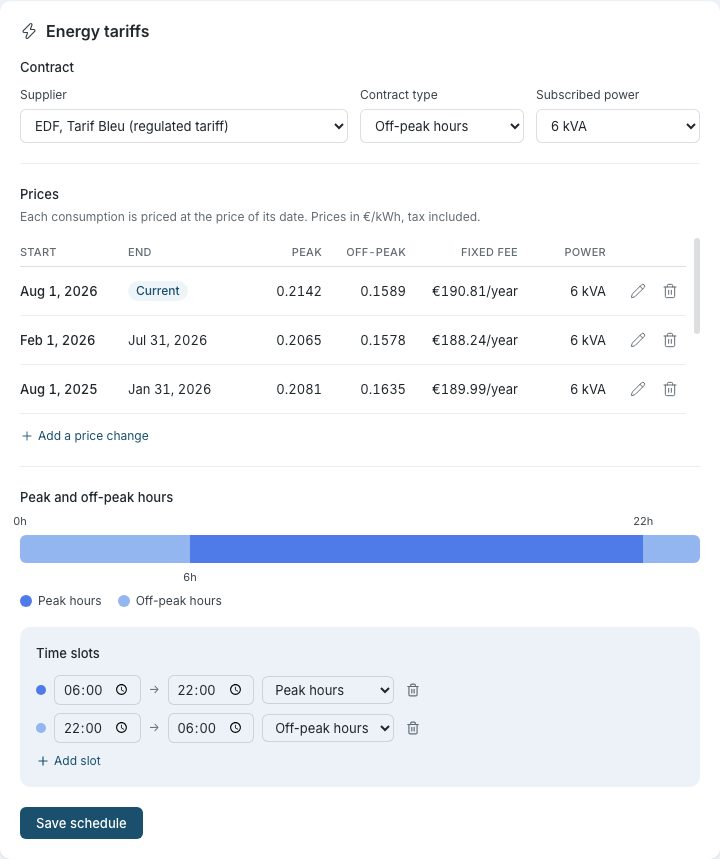
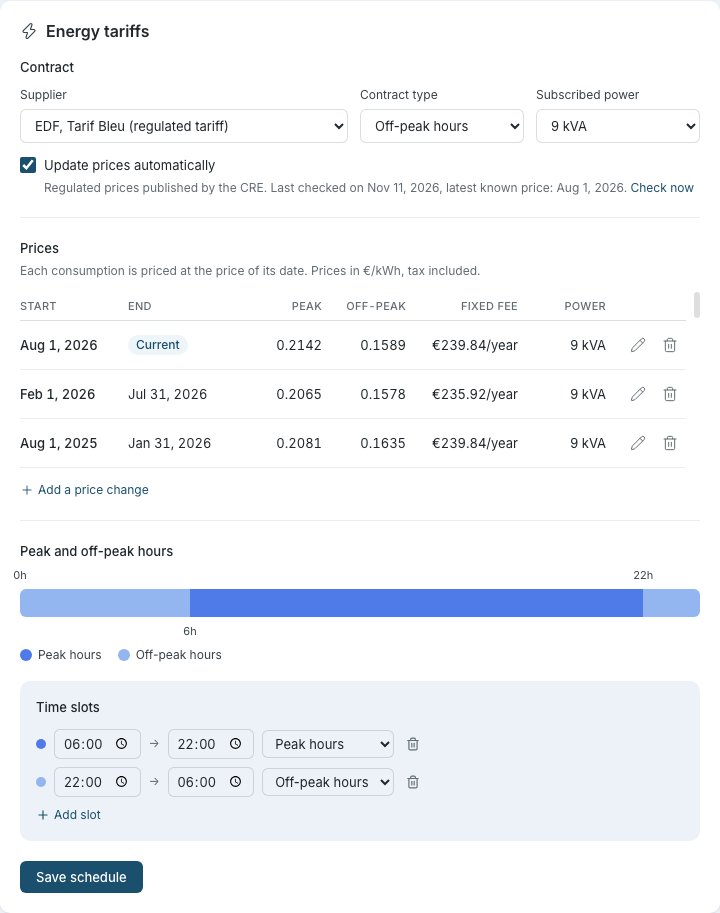
docs(energy): screenshots of the automatic prices option, spec 203 status

diff --git a/specs/203-price-file/spec.md b/specs/203-price-file/spec.md
@@ -107,20 +107,20 @@ of the file.
 
 ## Acceptance Criteria
 
-- [ ] `tariffs/electricity-prices.json` holds every row of the two CRE files for EDF Tarif Bleu, and the check
+- [x] `tariffs/electricity-prices.json` holds every row of the two CRE files for EDF Tarif Bleu, and the check
       passes.
-- [ ] The script run on the committed CRE fixtures gives the committed expected rows; a malformed fixture makes
+- [x] The script run on the committed CRE fixtures gives the committed expected rows; a malformed fixture makes
       it fail without writing.
 - [ ] The nightly workflow opens a pull request only when the file changes, and merges nothing.
-- [ ] With the option on and a contract of 9 kVA off-peak on an instance that only has the version without a
+- [x] With the option on and a contract of 9 kVA off-peak on an instance that only has the version without a
       date, the first read holds every past price; « Ajouter ces prix » creates them with
       `origin: "file:edf-tarif-bleu"`, and the Bilan of a past month is then priced with them.
-- [ ] A new period published later is added by itself, with one notification.
-- [ ] A row that starts before a manual version, and a 30 % jump, are held, not added.
-- [ ] A version that exists is never changed by a read, whatever the file says for its date.
-- [ ] An unreachable or invalid file changes nothing and is reported under the option.
-- [ ] « Autre fournisseur », the option off, or no power: no read is made.
-- [ ] A price set aside is not proposed again by the next read.
+- [x] A new period published later is added by itself, with one notification.
+- [x] A row that starts before a manual version, and a 30 % jump, are held, not added.
+- [x] A version that exists is never changed by a read, whatever the file says for its date.
+- [x] An unreachable or invalid file changes nothing and is reported under the option.
+- [x] « Autre fournisseur », the option off, or no power: no read is made.
+- [x] A price set aside is not proposed again by the next read.
 
 ## Edge Cases
 
@@ -152,4 +152,5 @@ of the file.
 | `docs/technical/contributing.md` + `.fr.md`     | How the price file is maintained: the nightly pull request, how to add a supplier                     |
 | `docs/release-notes.md` + `.fr.md` (at release) | Automatic prices for EDF Tarif Bleu; how to take the past prices after the upgrade                    |
 
-Screenshots to retake: `energy-tariff-settings-en.png` and `-fr.png` (the option and its status line).
+Screenshots retaken: `energy-tariff-settings-en.png` and `-fr.png` (the option and its status line), on a
+scratch instance that took the 9 kVA off-peak prices from the file.

diff --git a/specs/203-price-file/plan.md b/specs/203-price-file/plan.md
@@ -26,26 +26,28 @@ Branch `feat/price-file`. Two pull requests, so the file is on `main` before any
 
 ### Slice C — Deciding what to add
 
-- [ ] C.1 — `newPrices` in `price-file.ts`
-- [ ] C.2 — `TariffContract.autoUpdate`, `normalizeContract`, contract routes and their tests
+- [x] C.1 — `newPrices` in `price-file.ts`
+- [x] C.2 — `TariffContract.autoUpdate`, `normalizeContract`, contract routes and their tests
 
 ### Slice D — Daily read
 
-- [ ] D.1 — `price-file-sync.ts`: `check`, `apply`, `dismiss`, `status`, settings, timers
-- [ ] D.2 — Notifications; confirm the resolution-without-raise form in the UI and the push channel
-- [ ] D.3 — Four routes, wiring in `server.ts` and `index.ts`
+- [x] D.1 — `price-file-sync.ts`: `check`, `apply`, `dismiss`, `status`, settings, timers
+- [x] D.2 — Notifications; confirm the resolution-without-raise form in the UI and the push channel
+- [x] D.3 — Four routes, wiring in `server.ts` and `index.ts`
 
 ### Slice E — UI
 
-- [ ] E.1 — Mockup of the held prices panel, validated by the maintainer
-- [ ] E.2 — Option, status line and « Vérifier maintenant » in `TariffContractBlock.tsx`
-- [ ] E.3 — `TariffPriceProposals.tsx`, strings EN and FR
-- [ ] E.4 — Check on a scratch instance at phone and desktop widths, light and dark
+- [x] E.1 — Mockup of the held prices panel, validated by the maintainer
+- [x] E.2 — Option, status line and « Vérifier maintenant » in `TariffContractBlock.tsx`
+- [x] E.3 — `TariffPriceProposals.tsx`, strings EN and FR
+- [x] E.4 — Checked on a scratch instance reading the real file from `main`: 390 px and 1280 px in light,
+      1280 px in dark; the 23 prices of a 9 kVA off-peak contract added through the button (768 px and the phone
+      in dark not checked)
 
 ### Slice F — Docs and trial
 
-- [ ] F.1 — The docs delta of `spec.md`, EN and FR, screenshots
-- [ ] F.2 — Specs index rows (done with the spec)
+- [x] F.1 — The docs delta of `spec.md`, EN and FR, screenshots
+- [x] F.2 — Specs index rows (done with the spec)
 - [ ] F.3 — Trial on a local shadow instance seeded from production (`scripts/shadow-deploy.sh`, asked by the
       maintainer): Bilan of a month and a year noted before, the past prices added, the same views after; the
       differences explained by the prices alone
